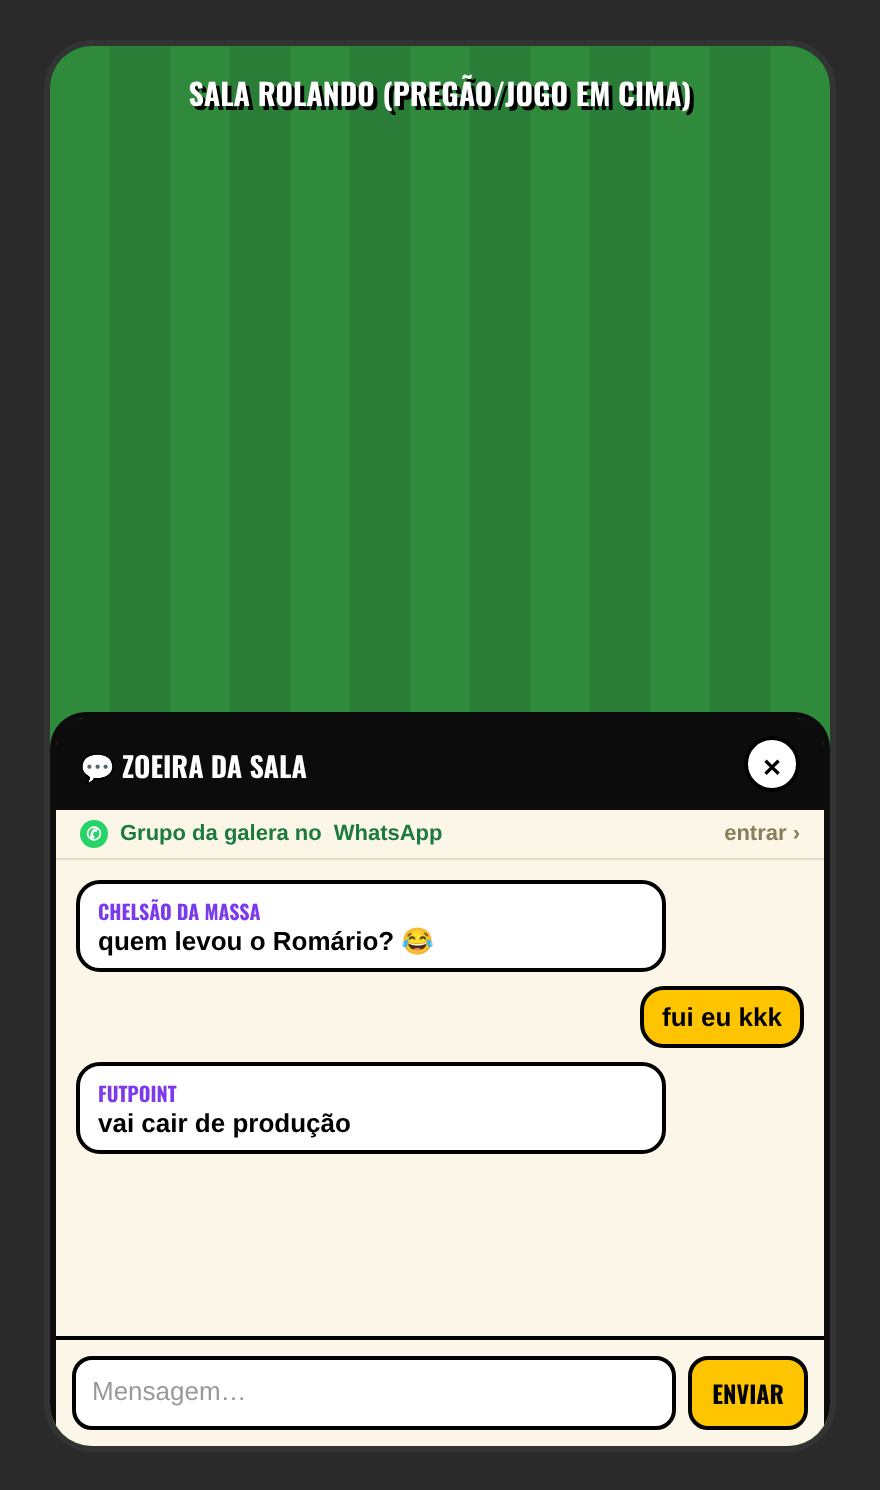
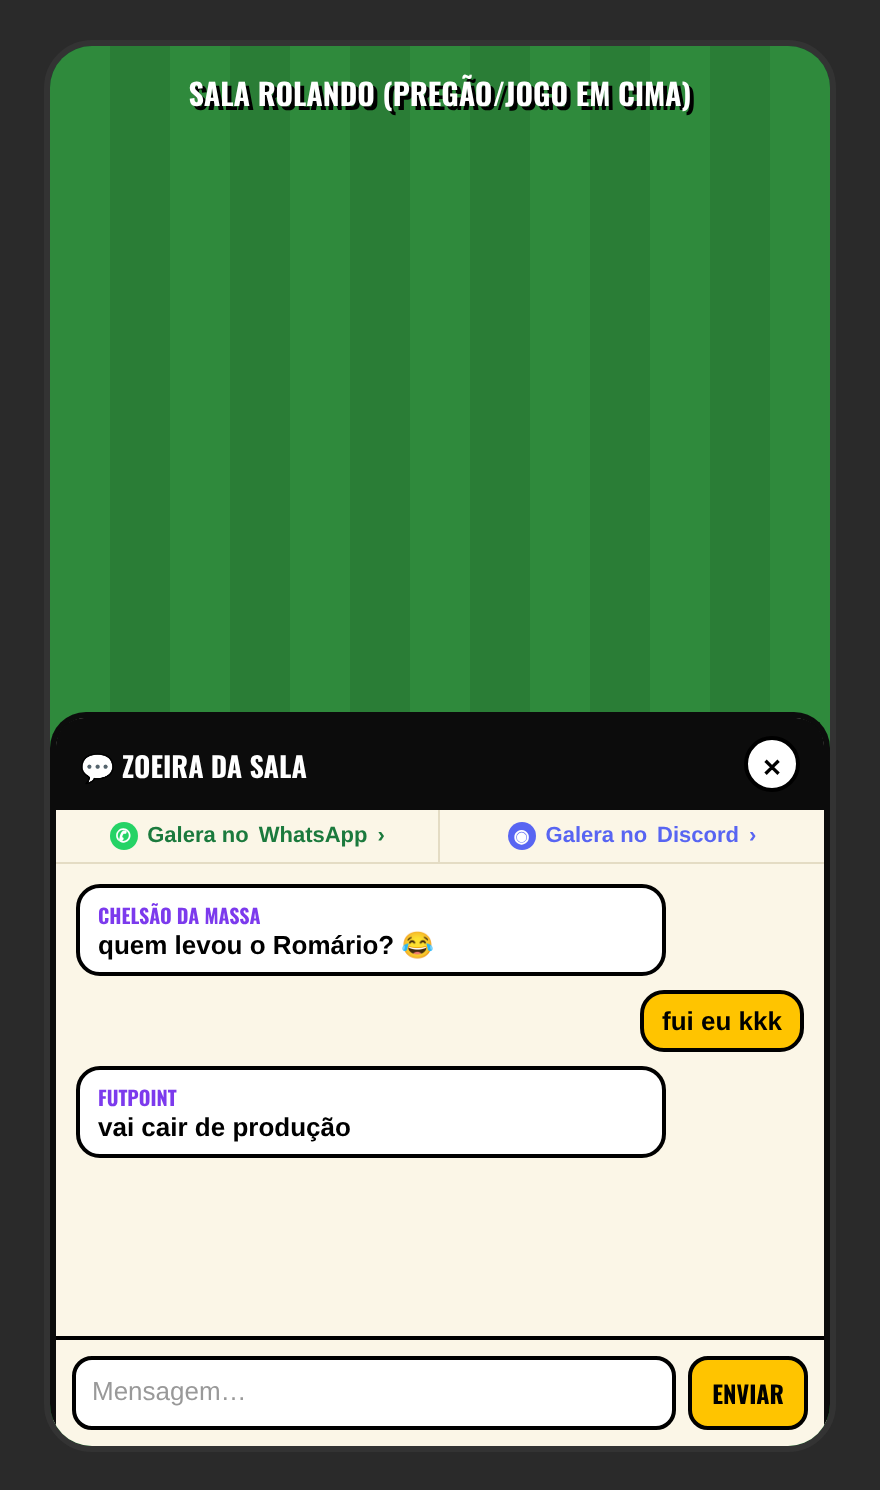
Mockup do chat: WhatsApp (verde) e Discord (azul) lado a lado na linha fininha
Claude-Session: https://claude.ai/code/session_012GPrTDbpvrApA6DArkzCpE

Changed region(s): [[0.092, 0.5248, 0.9205, 0.8027]]

diff --git a/scripts/mockups/chat-whatsapp.html b/scripts/mockups/chat-whatsapp.html
@@ -6,7 +6,7 @@
 .hd{background:#0C0C0C;color:#fff;display:flex;justify-content:space-between;align-items:center;padding:9px 12px;border-radius:14px 14px 0 0}
 .hd span{font:900 14px Oswald;text-transform:uppercase}.x{width:24px;height:24px;border-radius:99px;background:#fff;color:#000;border:2px solid #000;font:900 12px Oswald;display:grid;place-items:center}
 .wa{display:flex;align-items:center;gap:6px;padding:5px 12px;border-bottom:1px solid #e4dcc4;font:700 11px Arial;color:#1B7A3D;text-decoration:none}
-.wa b{font-weight:800}.wa i{margin-left:auto;font-style:normal;color:#8a7d59}
+.row{display:grid;grid-template-columns:1fr 1fr;border-bottom:1px solid #e4dcc4}.row a{display:flex;align-items:center;justify-content:center;gap:5px;padding:6px 6px;font:700 11px Arial;text-decoration:none;border-bottom:0}.wa{color:#1B7A3D;border-right:1px solid #e4dcc4!important}.dc{color:#5865F2}.dcd{background:#5865F2!important}.row b{font-weight:800}
 .dot{width:14px;height:14px;border-radius:99px;background:#25D366;display:grid;place-items:center;color:#fff;font-size:9px}
 .lst{flex:1;padding:10px;display:flex;flex-direction:column;gap:7px}
 .m{max-width:75%;background:#fff;border:2px solid #000;border-radius:12px;padding:6px 9px;font:700 13px Arial}.m small{display:block;font:900 10px Oswald;color:#7C3AED}
@@ -15,6 +15,6 @@
 .cap{position:absolute;top:12px;left:0;right:0;text-align:center;color:#fff;font:900 15px Oswald;text-shadow:2px 2px 0 #000}
 </style></head><body><div class="ph"><div class="jogo"></div><div class="cap">SALA ROLANDO (PREGÃO/JOGO EM CIMA)</div>
 <div class="dr"><div class="hd"><span>💬 Zoeira da sala</span><div class="x">✕</div></div>
-<a class="wa"><span class="dot">✆</span>Grupo da galera no <b>WhatsApp</b><i>entrar ›</i></a>
+<div class="row"><a class="wa"><span class="dot">✆</span>Galera no <b>WhatsApp</b> ›</a><a class="dc"><span class="dot dcd">◉</span>Galera no <b>Discord</b> ›</a></div>
 <div class="lst"><div class="m"><small>CHELSÃO DA MASSA</small>quem levou o Romário? 😂</div><div class="m me">fui eu kkk</div><div class="m"><small>FUTPOINT</small>vai cair de produção</div></div>
 <div class="in"><div>Mensagem…</div><b>ENVIAR</b></div></div></div></body></html>
